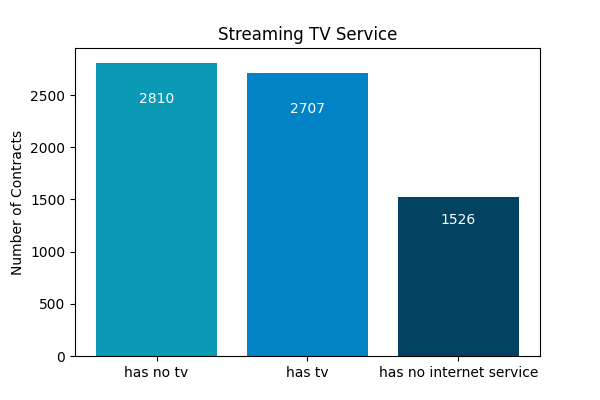
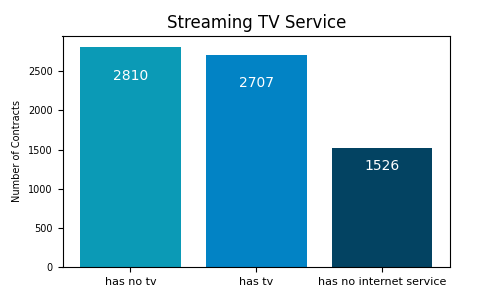
Updates.

diff --git a/templates/sociodem.html b/templates/sociodem.html
@@ -21,6 +21,15 @@
                          alt="Bar of Age Group" class="graph">
                 </div>
             </div>
+            <div><p>Average monthly charges by churn and age group</p>
+                <div>
+                    {% for key, value in by_age_group.items() %}
+
+                        <p>{{ key }} : {{ value }}</p>
+
+                    {% endfor %}
+                </div>
+            </div>
         </div>
 
         <h2>Partnership</h2>
@@ -42,7 +51,7 @@
             </div>
         </div>
 
-            <h2>Dependents</h2>
+        <h2>Dependents</h2>
         <p>Does customer has or hasn't dependents</p>
 
         <div class="container">

diff --git a/static/style.css b/static/style.css
@@ -35,7 +35,7 @@ nav a.active {
 }
 
 .frame {
-    padding: 20px;
+    padding: 40px;
     background-color: #fdf7fa;
     border-radius: 0 0 2px 2px;
     color: #2d2a2a;
@@ -48,9 +48,9 @@ h1 {
 
 .container {
     display: grid;
-    grid-template-columns: 230px auto;
-    grid-column-gap: 30px;
-    padding: 5px;
+    grid-template-columns: 210px auto;
+    grid-column-gap: 40px;
+    padding: 10px;
 }
 
 .graph-frame {

diff --git a/graphs_generation.py b/graphs_generation.py
@@ -107,11 +107,12 @@ def monthly_total_churn_bar(summary):
 
 
 def age_group_bar(age_group_data):
-    plt.figure(figsize=(6, 4))
+    plt.figure(figsize=(5, 3))
     bars = plt.bar(age_group_data.index, age_group_data.values, color=['#0B9AB6', '#034362'])
     plt.title('Age Group')
-    plt.ylabel('Number of Contracts')
-    plt.xticks(ticks=[0, 1], labels=['Age < 65', 'Age > 65'])
+    plt.ylabel('Number of Contracts', fontsize=7)
+    plt.yticks(fontsize=7)
+    plt.xticks(ticks=[0, 1], labels=['Age < 65', 'Age > 65'], fontsize=8)
     for bar in bars:
         yval = bar.get_height()
         plt.text(bar.get_x() + bar.get_width() / 2, yval - yval * 0.1, yval, va='top', ha='center', color='white',
@@ -122,11 +123,12 @@ def age_group_bar(age_group_data):
 
 
 def partner_bar(partner_data):
-    plt.figure(figsize=(6, 4))
+    plt.figure(figsize=(5, 3))
     bars = plt.bar(partner_data.index, partner_data.values, color=['#0B9AB6', '#034362'])
     plt.title('Partnership')
-    plt.ylabel('Number of Contracts')
-    plt.xticks(ticks=[0, 1], labels=['Has no partner', 'Has partner'])
+    plt.ylabel('Number of Contracts', fontsize=7)
+    plt.yticks(fontsize=7)
+    plt.xticks(ticks=[0, 1], labels=['Has no partner', 'Has partner'], fontsize=8)
     for bar in bars:
         yval = bar.get_height()
         plt.text(bar.get_x() + bar.get_width() / 2, yval - yval * 0.1, yval, va='top', ha='center', color='white',
@@ -137,11 +139,12 @@ def partner_bar(partner_data):
 
 
 def dependents_bar(dependents_data):
-    plt.figure(figsize=(6, 4))
+    plt.figure(figsize=(5, 3))
     bars = plt.bar(dependents_data.index, dependents_data.values, color=['#0B9AB6', '#034362'])
     plt.title('Dependents')
-    plt.ylabel('Number of Contracts')
-    plt.xticks(ticks=[0, 1], labels=['Has no dependents', 'Has dependents'])
+    plt.ylabel('Number of Contracts', fontsize=7)
+    plt.yticks(fontsize=7)
+    plt.xticks(ticks=[0, 1], labels=['Has no dependents', 'Has dependents'], fontsize=8)
     for bar in bars:
         yval = bar.get_height()
         plt.text(bar.get_x() + bar.get_width() / 2, yval - yval * 0.1, yval, va='top', ha='center', color='white',
@@ -152,11 +155,12 @@ def dependents_bar(dependents_data):
 
 
 def phone_bar(phone_data):
-    plt.figure(figsize=(6, 4))
+    plt.figure(figsize=(5, 3))
     bars = plt.bar(phone_data.index, phone_data.values, color=['#0B9AB6', '#034362'])
     plt.title('Phone Service')
-    plt.ylabel('Number of Contracts')
-    plt.xticks(ticks=[0, 1], labels=['Has phone service', 'Has no phone service'])
+    plt.ylabel('Number of Contracts', fontsize=7)
+    plt.yticks(fontsize=7)
+    plt.xticks(ticks=[0, 1], labels=['Has phone service', 'Has no phone service'], fontsize=8)
     for bar in bars:
         yval = bar.get_height()
         plt.text(bar.get_x() + bar.get_width() / 2, yval - yval * 0.1, yval, va='top', ha='center', color='white',
@@ -167,11 +171,12 @@ def phone_bar(phone_data):
 
 
 def internet_bar(internet_data):
-    plt.figure(figsize=(6, 4))
+    plt.figure(figsize=(5, 3))
     bars = plt.bar(internet_data.index, internet_data.values, color=['#0B9AB6', '#0283C5', '#034362'])
     plt.title('Internet Service')
-    plt.ylabel('Number of Contracts')
-    plt.xticks(ticks=[0, 1, 2], labels=['fiber optic', 'dsl', 'has no internet service'])
+    plt.ylabel('Number of Contracts', fontsize=7)
+    plt.yticks(fontsize=7)
+    plt.xticks(ticks=[0, 1, 2], labels=['fiber optic', 'dsl', 'has no internet service'], fontsize=8)
     for bar in bars:
         yval = bar.get_height()
         plt.text(bar.get_x() + bar.get_width() / 2, yval - yval * 0.1, yval, va='top', ha='center', color='white',
@@ -182,11 +187,12 @@ def internet_bar(internet_data):
 
 
 def streaming_tv_bar(streaming_tv_data):
-    plt.figure(figsize=(6, 4))
+    plt.figure(figsize=(5, 3))
     bars = plt.bar(streaming_tv_data.index, streaming_tv_data.values, color=['#0B9AB6', '#0283C5', '#034362'])
     plt.title('Streaming TV Service')
-    plt.ylabel('Number of Contracts')
-    plt.xticks(ticks=[0, 1, 2], labels=['has no tv', 'has tv', 'has no internet service'])
+    plt.ylabel('Number of Contracts', fontsize=7)
+    plt.yticks(fontsize=7)
+    plt.xticks(ticks=[0, 1, 2], labels=['has no tv', 'has tv', 'has no internet service'], fontsize=8)
     for bar in bars:
         yval = bar.get_height()
         plt.text(bar.get_x() + bar.get_width() / 2, yval - yval * 0.1, yval, va='top', ha='center', color='white',

diff --git a/functions.py b/functions.py
@@ -110,7 +110,8 @@ def monthly_total_charges_churn():
     bins = np.arange(10, 120, 10)
     data['Monthly_Charges_bin'] = pd.cut(data['Monthly_Charges'], bins=bins)
 
-    monthly_total_churn_summary = data.groupby(['Monthly_Charges_bin', 'Churn'])['Total_Charges'].sum().unstack().fillna(0)
+    monthly_total_churn_summary = data.groupby(['Monthly_Charges_bin', 'Churn'])[
+        'Total_Charges'].sum().unstack().fillna(0)
 
     return monthly_total_churn_summary
 
@@ -179,6 +180,19 @@ def dependents_statistics():
 
 def dependents():
     return data['Dependents'].value_counts()
+
+
+def churn_by_age_group_monthly_mean():
+    mean = data.groupby(['Churn', 'Senior_Citizen'])['Monthly_Charges'].mean()
+
+    by_mean = {
+        'Active & Age < 65': round(list(mean)[0], 2),
+        'Active & Age > 65': round(list(mean)[1], 2),
+        'Terminated & Age < 65': round(list(mean)[2], 2),
+        'Terminated & Age > 65': round(list(mean)[3], 2)
+    }
+
+    return by_mean
 
 
 def phone_statistics():

diff --git a/app.py b/app.py
@@ -55,10 +55,13 @@ def sociodem_page():
     dependents_data = dependents()
     dependents_bar(dependents_data)
 
+    by_age_group = churn_by_age_group_monthly_mean()
+
     return render_template('sociodem.html',
                            age_group_stat=age_group_stat,
                            partner_stat=partner_stat,
-                           dependents_stat=dependents_stat)
+                           dependents_stat=dependents_stat,
+                           by_age_group=by_age_group)
 
 
 @app.route('/services', methods=['GET'])
